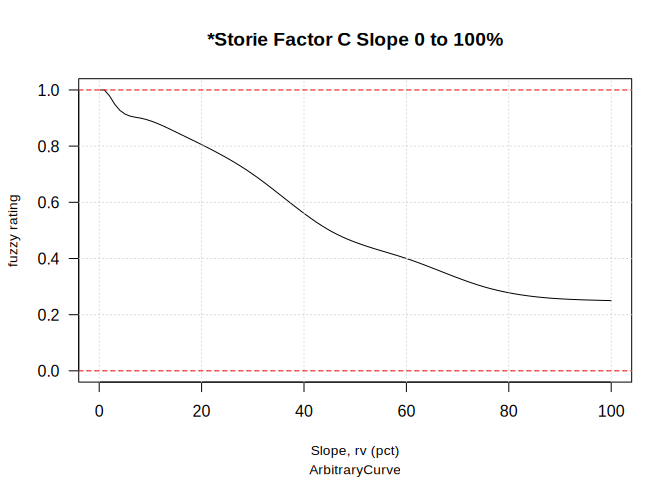
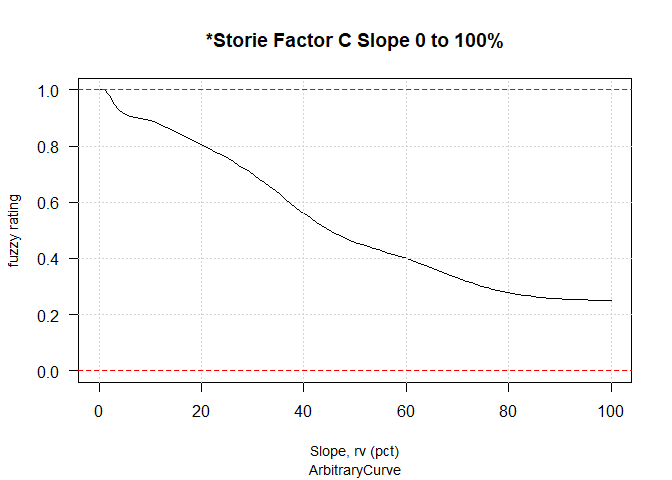
move high-level `interpret()` function above Rule Trees in readme

diff --git a/README.md b/README.md
@@ -60,13 +60,41 @@ The following images show the output of an evaluation function for slope
     eval <- subset(NASIS_evaluations, evalname == "*Storie Factor C Slope 0 to 100%")
     plotEvaluation(eval, xlim = c(0, 100))
 
-<img src="man/figures/README-unnamed-chunk-2-1.png" width="100%" />
+<img src="man/figures/README-unnamed-chunk-2-1.png" alt="" width="100%" />
 
 
     # zoom in on  custom shape in [0, 8]% slope range
     plotEvaluation(eval, xlim = c(0,8))
 
-<img src="man/figures/README-unnamed-chunk-2-2.png" width="100%" />
+<img src="man/figures/README-unnamed-chunk-2-2.png" alt="" width="100%" />
+
+## Run a rule tree with custom data
+
+The `interpret()` function takes a data.frame or SpatRaster where column
+or variable names correspond to input property names. Property names can
+be extracted using `getPropertySet()` and then made into compatible
+names using the base R function `make.names()`.
+
+Here we pick a simple rule that utilizes only one property and
+evaluation (“Erodibility Factor Maximum”). The numeric input to the
+evaluation function is an erodibility (“K”) factor ranging from 0 to 1.
+
+    # parse rule and properties
+    r <- initRuleset("Erodibility Factor Maximum")
+    p <- getPropertySet(r)
+
+    # prepare input data
+    kf <- seq(0, 1, 0.01)
+    input <- data.frame(kf = kf)
+    colnames(input) <- make.names(p$propname)
+
+    # run interpretation
+    output <- interpret(r, input)
+
+    # visualize results
+    plot(output$rating ~ input$SOIL.EROSION.FACTOR.MAXIMUM.1.99)
+
+<img src="man/figures/README-unnamed-chunk-3-1.png" alt="" width="100%" />
 
 ### Rule Trees
 
@@ -90,7 +118,6 @@ define a “primary rule” or interpretation.
     #> 1                                          DRYNESS INDEX   15302
     #> 2             WTD_AVG GYPSUM 0-50cm OR ABOVE RESTRICTION   15300
     #> 3 WTD_AVG SAND CONTENT 0-50cm OR ABOVE RESTRICTION, NO O   15301
-
 
     # view rule tree
     data.tree::ToDataFrameTree(r, "Type", "Value", "RefId", "rule_refid")
@@ -221,7 +248,6 @@ properties:
     #> 131                             Erosion Class in component table   12377
     #> 135      *Storie near surface wetness rv depth in growing season   12584
     #> 136                             *Storie temperature regime score   42014
-
 
     # view rule tree
     data.tree::ToDataFrameTree(r, "Type", "Value", "RefId", "rule_refid")
@@ -731,34 +757,6 @@ properties:
     #> 250           <NA>  <NA> 12954       <NA>
     #> 251           <NA>  <NA> 49449      49449
     #> 252           <NA>  <NA> 50482       <NA>
-
-## Run a rule tree with custom data
-
-The `interpret()` function takes a data.frame or SpatRaster where column
-or variable names correspond to input property names. Property names can
-be extracted using `getPropertySet()` and then made into compatible
-names using the base R function `make.names()`.
-
-Here we pick a simple rule that utilizes only one property and
-evaluation (“Erodibility Factor Maximum”). The numeric input to the
-evaluation function is an erodibility (“K”) factor ranging from 0 to 1.
-
-    # parse rule and properties
-    r <- initRuleset("Erodibility Factor Maximum")
-    p <- getPropertySet(r)
-
-    # prepare input data
-    kf <- seq(0, 1, 0.01)
-    input <- data.frame(kf = kf)
-    colnames(input) <- make.names(p$propname)
-
-    # run interpretation
-    output <- interpret(r, input)
-
-    # visualize results
-    plot(output$rating ~ input$SOIL.EROSION.FACTOR.MAXIMUM.1.99)
-
-<img src="man/figures/README-unnamed-chunk-5-1.png" width="100%" />
 
 ## Resources
 
